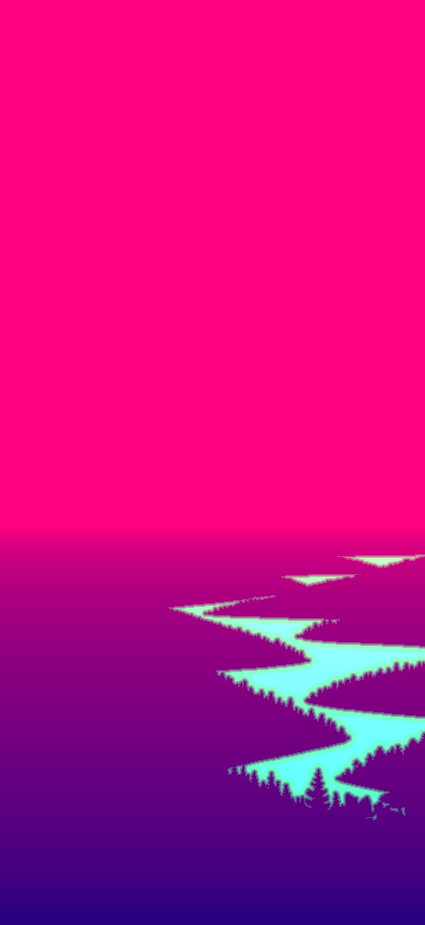
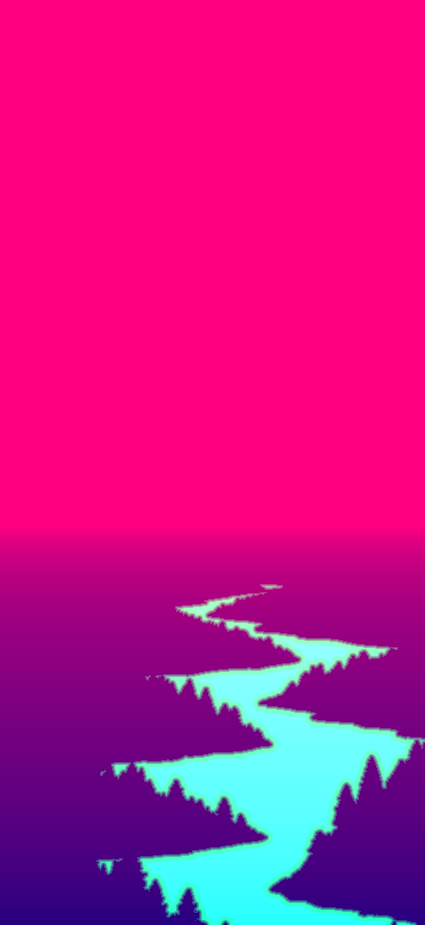
[quick-ui] Register reference-inspired landscape layers with GPU water and real lunar phases

Changed region(s): [[0.2447, 0.5751, 1.0, 1.0], [0.2141, 0.9081, 0.2753, 0.9686]]

diff --git a/lib/landscape-renderer.ts b/lib/landscape-renderer.ts
@@ -7,7 +7,7 @@ const TAU=Math.PI*2,WIDTH=1000,HEIGHT=1000*1850/850;
 const blend=(a:number[],b:number[],t:number)=>a.map((v,i)=>v+(b[i]-v)*t);
 const css=(c:number[])=>`rgb(${c.map(Math.round).join(',')})`;
 export const cloudOffset=(seconds:number)=>((seconds*12)%WIDTH+WIDTH)%WIDTH;
-export type LandscapeAssets={terrain:CanvasImageSource;clouds:CanvasImageSource;water:CanvasImageSource;geometry?:CanvasImageSource;perspective?:CanvasImageSource;cloudAlpha?:Uint8ClampedArray};
+export type LandscapeAssets={terrain:CanvasImageSource;clouds:CanvasImageSource;water:CanvasImageSource;moon?:CanvasImageSource;geometry?:CanvasImageSource;perspective?:CanvasImageSource;cloudAlpha?:Uint8ClampedArray};
 /** One neutral illustrated terrain cutout, one cloud layer and a mask extracted from
  * the terrain's transparent river. All times use these SAME assets and geometry. */
 export class LandscapeRenderer{
@@ -19,7 +19,7 @@ export class LandscapeRenderer{
   private gpuAttempted=false;
   quality:WaterQuality='high';
   lighting:LandscapeLightingState|null=null;
-  private lunarTexture:HTMLCanvasElement;
+  private lunarTexture:CanvasImageSource;
   private lastBackground=-Infinity;
   private backgroundFrames=0;
   private lastAstronomy=-Infinity;
@@ -33,7 +33,7 @@ export class LandscapeRenderer{
     this.ctx=canvas.getContext('2d',{alpha:false})!;this.lunarTexture=moonTexture();
     this.terrain=document.createElement('canvas');this.clouds=document.createElement('canvas');this.water=document.createElement('canvas');
   }
-  setAssets(assets:LandscapeAssets){this.assets=assets;this.lastLight='';this.fallbackKey='';this.lastBackground=-Infinity;this.gpu?.setAssets(assets);}
+  setAssets(assets:LandscapeAssets){this.assets=assets;if(assets.moon)this.lunarTexture=assets.moon;this.lastLight='';this.fallbackKey='';this.lastBackground=-Infinity;this.gpu?.setAssets(assets);}
   suspend(){this.gpu?.suspend();}
   dispose(){this.gpu?.dispose();this.gpu=null;this.assets=null;for(const layer of [this.terrain,this.clouds,this.water])layer.width=layer.height=1;}
   getGpuMs(){return this.gpu?.getGpuMs()??0;}

diff --git a/components/DynamicLandscape.tsx b/components/DynamicLandscape.tsx
@@ -128,13 +128,13 @@ export default function DynamicLandscape({active,glass=true}:{active:boolean;gla
     const image=(name:string)=>new Promise<HTMLImageElement>((resolve,reject)=>{
       const value=new Image();value.onload=()=>resolve(value);value.onerror=()=>reject(new Error(name));value.src='/themes/mountains/'+name;
     });
-    void Promise.all([image('terrain.webp'),image('clouds.webp'),image('water-mask.png'),image('water-uv.png').catch(()=>undefined),image('water-perspective.png').catch(()=>undefined)]).then(([terrain,clouds,water,geometry,perspective])=>{
+    void Promise.all([image('terrain.webp'),image('clouds.webp'),image('water-mask.png'),image('water-uv.png').catch(()=>undefined),image('water-perspective.png').catch(()=>undefined),image('moon.webp').catch(()=>undefined)]).then(([terrain,clouds,water,geometry,perspective,moon])=>{
       if(!alive)return;
       const mask=document.createElement('canvas');mask.width=850;mask.height=1850;
       const context=mask.getContext('2d',{willReadFrequently:true})!;context.drawImage(clouds,0,0,850,1850);
       const rgba=context.getImageData(0,0,850,1850).data,alpha=new Uint8ClampedArray(850*1850);
       for(let i=0;i<alpha.length;i++)alpha[i]=rgba[i*4+3];
-      renderer.setAssets({terrain,clouds,water,geometry,perspective,cloudAlpha:alpha});element.dataset.assetsReady='true';draw();
+      renderer.setAssets({terrain,clouds,water,geometry,perspective,moon,cloudAlpha:alpha});element.dataset.assetsReady='true';draw();
     }).catch(()=>{if(alive)element.dataset.renderError='landscape-assets';});
     worker.onmessage=event=>{
       if(!alive||event.data.id!==requestId)return;

diff --git a/scripts/prepare-landscape-masks.py b/scripts/prepare-landscape-masks.py
@@ -1,0 +1,31 @@
+"""Derive visibility from production cutout alpha; never guess river polygons.
+
+Run after importing terrain.webp at its registered 850 x 1850 scene coordinates.
+Sky is the transparent space above each column's first opaque mountain; water
+is transparent space below the documented far-bank limit. Thin tree/shore
+coverage is preserved as fractional alpha. No image colour segmentation.
+"""
+import json
+import pathlib
+import numpy as np
+from PIL import Image
+
+root = pathlib.Path(__file__).resolve().parents[1]
+folder = root / 'public/themes/mountains'
+terrain = Image.open(folder / 'terrain.webp').convert('RGBA')
+assert terrain.size == (850, 1850)
+alpha = np.asarray(terrain)[:, :, 3]
+skyline = np.argmax(alpha > 160, axis=0)
+assert np.all(np.any(alpha > 160, axis=0))
+assert np.min(skyline) > terrain.height * .4
+water = np.zeros_like(alpha)
+far_bank = 1100  # Above the first river opening, below every mountain edge.
+assert np.max(skyline) < far_bank
+water[far_bank:] = 255 - alpha[far_bank:]
+mask = np.full((1850, 850, 4), 255, dtype=np.uint8)
+mask[:, :, 3] = water
+Image.fromarray(mask).save(folder / 'water-mask.png', optimize=True)
+samples = np.interp(np.linspace(0, 849, 256), np.arange(850), skyline) / 1850
+(root / 'lib/landscape-horizon.json').write_text(json.dumps(samples.tolist(), separators=(',', ':')) + '\n')
+print('Registered river pixels:', int(np.count_nonzero(water > 128)))
+print('Mountain skyline:', float(samples.min()), float(samples.max()))

diff --git a/docs/reference-landscape-art.md b/docs/reference-landscape-art.md
@@ -1,0 +1,50 @@
+# Reference landscape artwork revision
+
+The user authorized replacing the landscape illustration to approach the supplied
+four-phone reference, and identified POCO F8 Pro as the target phone. This is new
+illustrative artwork inspired by that reference, not a pixel-identical recovery
+of the flattened collage. No original 3D camera, geometry or motion source was
+provided. No phone-specific performance is claimed without device measurements.
+
+Production files are `public/themes/mountains/terrain.webp`, `clouds.webp` and
+`moon.webp`. Artwork was created with the built-in imagegen tool, then converted
+to WebP. The 850x1850 terrain is registered 170 pixels downward against the
+UNCHANGED astronomical screen projection. River openings and the skyline move
+with the terrain, rather than changing the orbit to suit the new illustration.
+The lunar texture is reduced to 256x256; real phase/orientation still come from
+the existing ephemeris. Its previous procedural texture remains the load fallback.
+
+`scripts/prepare-landscape-masks.py` derives water coverage and the 256-point
+mountain skyline directly from production alpha. The far-bank cutoff at row 1100
+lies in opaque terrain above the river; it does not paint a rectangular water
+surface. `prepare-water-geometry.py` then regenerates registered shore/depth data.
+The existing coplanar perspective map stays valid because the camera is unchanged.
+Node/Sharp integration tests compare alpha coverage and sampled occlusion against
+the actual decoded WebP, rather than merely checking a manually drawn polygon.
+
+GPU rendering remains Gerstner displacement/analytic normals, GGX/Smith/Schlick,
+HDR where supported, ACES, restrained bloom and occluded screen-space scattering.
+No sun, moon or water reflection is baked into the terrain. UI layout, saved glass
+opacity, schedules, maps, theme selection and astronomical computations are retained.
+
+## Generation prompts
+
+Reference input: user-supplied `6952(5).png`; terrain and clouds use its mountain
+illustration as style/composition reference. The following were the production
+prompts (a later terrain variant was discarded).
+
+### Terrain source
+
+Use case: stylized-concept. Project asset, NOT a mockup. Create ONE portrait landscape TERRAIN CUTOUT for a layered animated Android app background, aspect ratio 850:1850. Reference image is STYLE AND COMPOSITION REFERENCE ONLY: closely match the richly detailed hand-painted mountain valley, dense pine forests and winding river in the SECOND phone from the left. No phone, interface, frames, text or captions. CRITICAL ALPHA: entire sky is transparent; entire visible river/lake surface is transparent (holes in the terrain), so a real GPU water renderer can show through. Only mountains, forested banks, little tree-covered islands, near foreground shrubs/rocks are opaque. No white/black/coloured fill in the river. Clear cutout silhouette of trees against water, fine antialiasing. Portrait scene: upper 43 percent entirely empty transparent sky; layered distant blue mountains at y=43-59%; distant river begins around (55%,59%), curves toward (35%,68%), then (69%,77%), then (51%,88%), then widens to lower right around (74%,99%). Deep valley perspective. River must be BROAD and visually important with multiple visible surfaces behind forested islands, like the reference. Very distant mountains pale atmospheric blue, middle pine forest rich green, foreground foliage detailed, warm neutral late-afternoon illumination without baked orange sunset wash; rich painterly cinematic detail like reference. Water HOLES should remain open to the bottom edge around x55-90%, other foreground vegetation frames bottom left and right. No sun, no moon, no stars, no clouds, no light shafts, no baked water reflections. Keep every visible water pixel transparent. Produce professional production terrain art with crisp intricate bank silhouettes and layered depth; not simplified vector artwork.
+
+### Terrain refinement (selected source)
+
+Edit this production terrain cutout. Keep landscape drawing, detailed forest and broad transparent river holes, true alpha transparency. Recompose downward: FIRST mountain pixel must start at 43% of image height (not current 27%). The upper 43% MUST be entirely transparent. Distant river first appears at 60% height. River widens through lower 40%; some foreground at bottom may be cropped to fit. Same portrait 850x1850, image must remain full portrait with blank transparent space top43%. Preserve river holes transparent, sky transparent, terrain opaque, no water surface painting, no clouds, no sun/moon, no interface/text. Match input art exactly with shifted framing.
+
+### Clouds
+
+Use case: stylized-concept. Create ONE professional production CLOUD LAYER texture, portrait 850x1850 with actual alpha transparency. Reference is style reference only: richly textured cumulus and wispy cloud banks from the sunset phone, but neutral cream white/gray daylight coloring so code can relight at sunset/night. No background sky color. No landscape, mountains, river, sun, moon, stars, interface, border or text. Soft translucent cloud edges and fine painterly light detail. Composition: cloud banks across upper half between y=0 and y=48%, broken small cloudlets near y=40%, breathing room at horizontal center around y=30-40% for Sun. Entire lower half fully transparent. Clouds irregularly clustered in horizontal atmospheric layers like the reference, naturally textured luminous edges. Not a dense opaque blanket, enough open gaps for blue sky. Texture ends left/right fade naturally; real alpha, no checkerboard painted.
+
+### Moon
+
+Use case: stylized-concept. Production texture for the visible full Moon in a hand-painted mountain landscape mobile app. One centered circular full moon disc on true transparent background, fills 90% square canvas. Beautiful softly painted but anatomically recognizable lunar maria: dark Sea of Tranquility on upper right, Oceanus Procellarum on left, fine restrained craters, creamy silver slightly warm ivory colour, natural shaded limb and subtle texture. No halo or glow outside disc (engine adds it), no stars, no background, no text. Not a ball covered in random circular outlines. High detail that still reads at 32 pixels, softly luminous, match elegant cinematic mountain illustration reference. Whole circular disc fully lit without crescent or terminator; engine will apply real lunar phase.

diff --git a/docs/physical-water.md b/docs/physical-water.md
@@ -1,8 +1,10 @@
 # Water surface and scene lighting
 
 This revision replaces the earlier reflection corridor, crest sparkle mask, CSS
-solar glows and Canvas ray wedges. Existing terrain/cloud images, astronomy,
-trajectory, theme selection, React layout and transport functions are retained.
+solar glows and Canvas ray wedges. Astronomy, trajectory, theme selection,
+React layout and transport functions are retained. The follow-up reference-art
+revision replaces terrain/cloud artwork with separately generated cutouts and
+adds a lunar surface texture, following the user's authorization to change art.
 
 ## Controlled geometry
 
@@ -23,7 +25,7 @@ existing horizon remain aligned. Relative camera height is 8 units.
   and a conservative shore-proximity ambient-occlusion estimate. This is not a
   fabricated tree-height field or a full 3D shadow map.
 
-The unchanged high-resolution water mask clips every water pass, including
+The registered high-resolution water mask clips every water pass, including
 bloom. It contains the banks, islands and trees. The existing horizon lookup
 removes direct solar/lunar light behind mountains; the drifting cloud alpha
 controls transmission. These are controlled 2.5D occlusion approximations.
